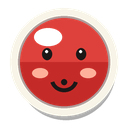
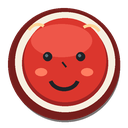
fix: refine taiko note feedback visuals

diff --git a/docs/ASSET_AUDIT.md b/docs/ASSET_AUDIT.md
@@ -12,8 +12,8 @@ Rows marked `planned original` describe placeholder assets that may be created b
 
 | Asset ID | Path | Type | Source | Author | License | Redistribution | Commercial Use | Status | Include In Repo | Include In Release | Notes |
 | --- | --- | --- | --- | --- | --- | --- | --- | --- | --- | --- | --- |
-| gdtaiko-note-don | assets/notes/note_don.png | skin | generated by GDTaiko | GDTaiko contributors | CC0-1.0 | yes | yes | release_allowed | yes | yes | 128x128 original red Don note face with rim, highlight, and expression; no third-party source. |
-| gdtaiko-note-ka | assets/notes/note_ka.png | skin | generated by GDTaiko | GDTaiko contributors | CC0-1.0 | yes | yes | release_allowed | yes | yes | 128x128 original blue Ka note face with rim, highlight, and expression; no third-party source. |
+| gdtaiko-note-don | assets/notes/note_don.png | skin | generated by GDTaiko | GDTaiko contributors | CC0-1.0 | yes | yes | release_allowed | yes | yes | 128x128 original red Don note face with solid opaque interior, rim, and expression; no third-party source. |
+| gdtaiko-note-ka | assets/notes/note_ka.png | skin | generated by GDTaiko | GDTaiko contributors | CC0-1.0 | yes | yes | release_allowed | yes | yes | 128x128 original blue Ka note face with solid opaque interior, rim, and expression; no third-party source. |
 | gdtaiko-default-theme | themes/default/theme.json | skin metadata | generated by GDTaiko | GDTaiko contributors | CC0-1.0 | yes | yes | release_allowed | yes | yes | Original default skin metadata and colors; references only audited placeholder note textures and no third-party assets. |
 | gdtaiko-night-festival-main-menu | assets/skin/night_festival/backgrounds/main_menu.png | skin background | AI-generated by GDTaiko using image generation | GDTaiko contributors | CC0-1.0 | yes | yes | release_allowed | yes | yes | Original night-festival menu background generated for GDTaiko on 2026-06-14; prompt required no text, logos, existing game characters, or copyrighted mascot references. |
 | gdtaiko-night-festival-gameplay-stage | assets/skin/night_festival/backgrounds/gameplay_stage.png | skin background | AI-generated by GDTaiko using image generation | GDTaiko contributors | CC0-1.0 | yes | yes | release_allowed | yes | yes | Original night-festival gameplay background generated for GDTaiko on 2026-06-14; central band kept dark for gameplay readability. |
